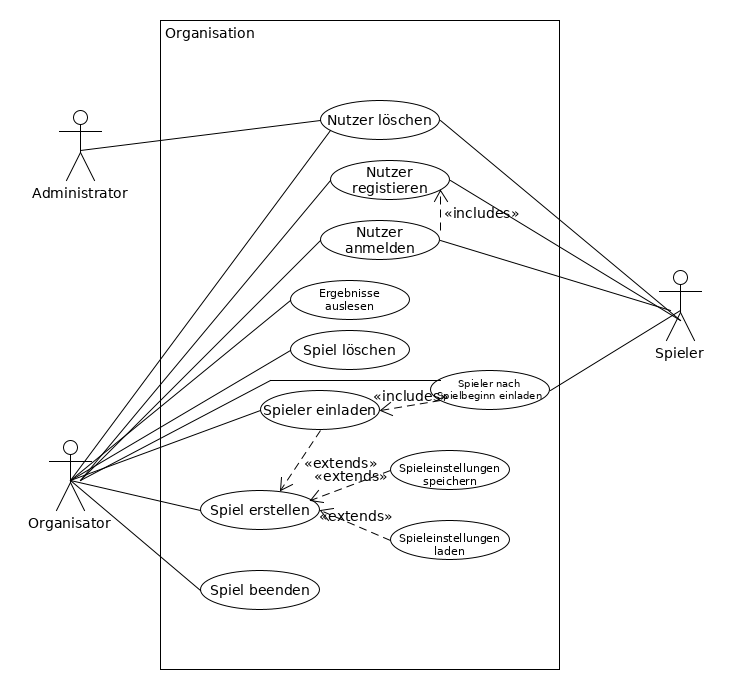
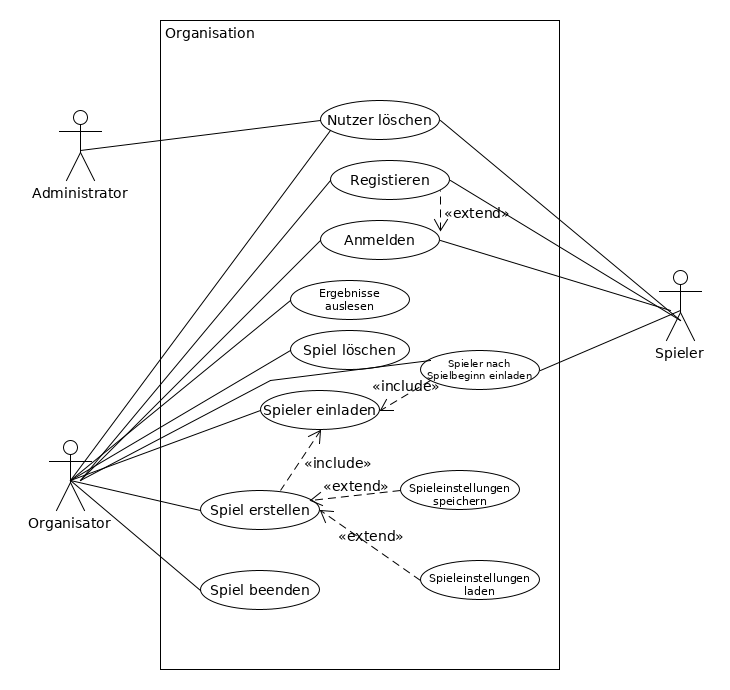
reorganized headings for anwendugsfälle and adressed comments for Use-Case Diagramms

diff --git a/pflichtenheft/pflichtenheft.tex b/pflichtenheft/pflichtenheft.tex
@@ -278,9 +278,8 @@ description={Ein Server, der nicht Bestandteil des Produktes ist, jedoch benöti
         /NF110/ & Lizensierung des Produkts mit MIT-Lizenz.
     \end{tabularx}
 
-    \chapter{Systemmodelle}
-    \section{Anwendungsfälle}
-
+    \chapter{Testszenarien}
+    \section{Organisation}
     \includegraphics[width=\textwidth]{uml/export/Organisation.png}
     Akteure:
     \begin{itemize}
@@ -470,6 +469,7 @@ description={Ein Server, der nicht Bestandteil des Produktes ist, jedoch benöti
 
 
     \newpage
+    \section{Spiel}
     \includegraphics[width=\textwidth]{uml/export/Spiel.png}
     Akteure: 
     \begin{itemize}
@@ -539,6 +539,7 @@ description={Ein Server, der nicht Bestandteil des Produktes ist, jedoch benöti
     \end{itemize}
     
 \newpage
+    \section{Spieler-Übersicht}
     \includegraphics[width=\textwidth]{uml/export/Spieler_Ubersicht.png}
 	    \subsection{Achievements ansehen}
     \begin{itemize}
@@ -570,6 +571,7 @@ description={Ein Server, der nicht Bestandteil des Produktes ist, jedoch benöti
     %Nach der Anmeldung erreicht ein \Gls{Spieler} eine Übersichts-Seite. Darauf ist ein Bereich, der eine aktuelle Tabelle
     %anzeigt, in welcher die \Gls{Spieler} aufgelistet sind, die in einem bestimmten Zeitraum die meisten Punkte erreicht haben.
     \newpage
+    \section{Administration}
     \includegraphics[width=\textwidth]{uml/export/Administration.png}
      \subsection{Sprache ändern}
     \begin{itemize}
@@ -662,9 +664,7 @@ description={Ein Server, der nicht Bestandteil des Produktes ist, jedoch benöti
 
     %TODO: Ausführung auf verschiedenem Ports
 
-        \section{Objektmodell}
-
-    \section{Dynamische Modelle}
+    \chapter{Dynamische Modelle}
     \subsection{Streak Zustandsdiagramm}
     \label{fig:Streak_State}
     \includegraphics[width=\textwidth]{uml/export/Streak_Zustand.png}
